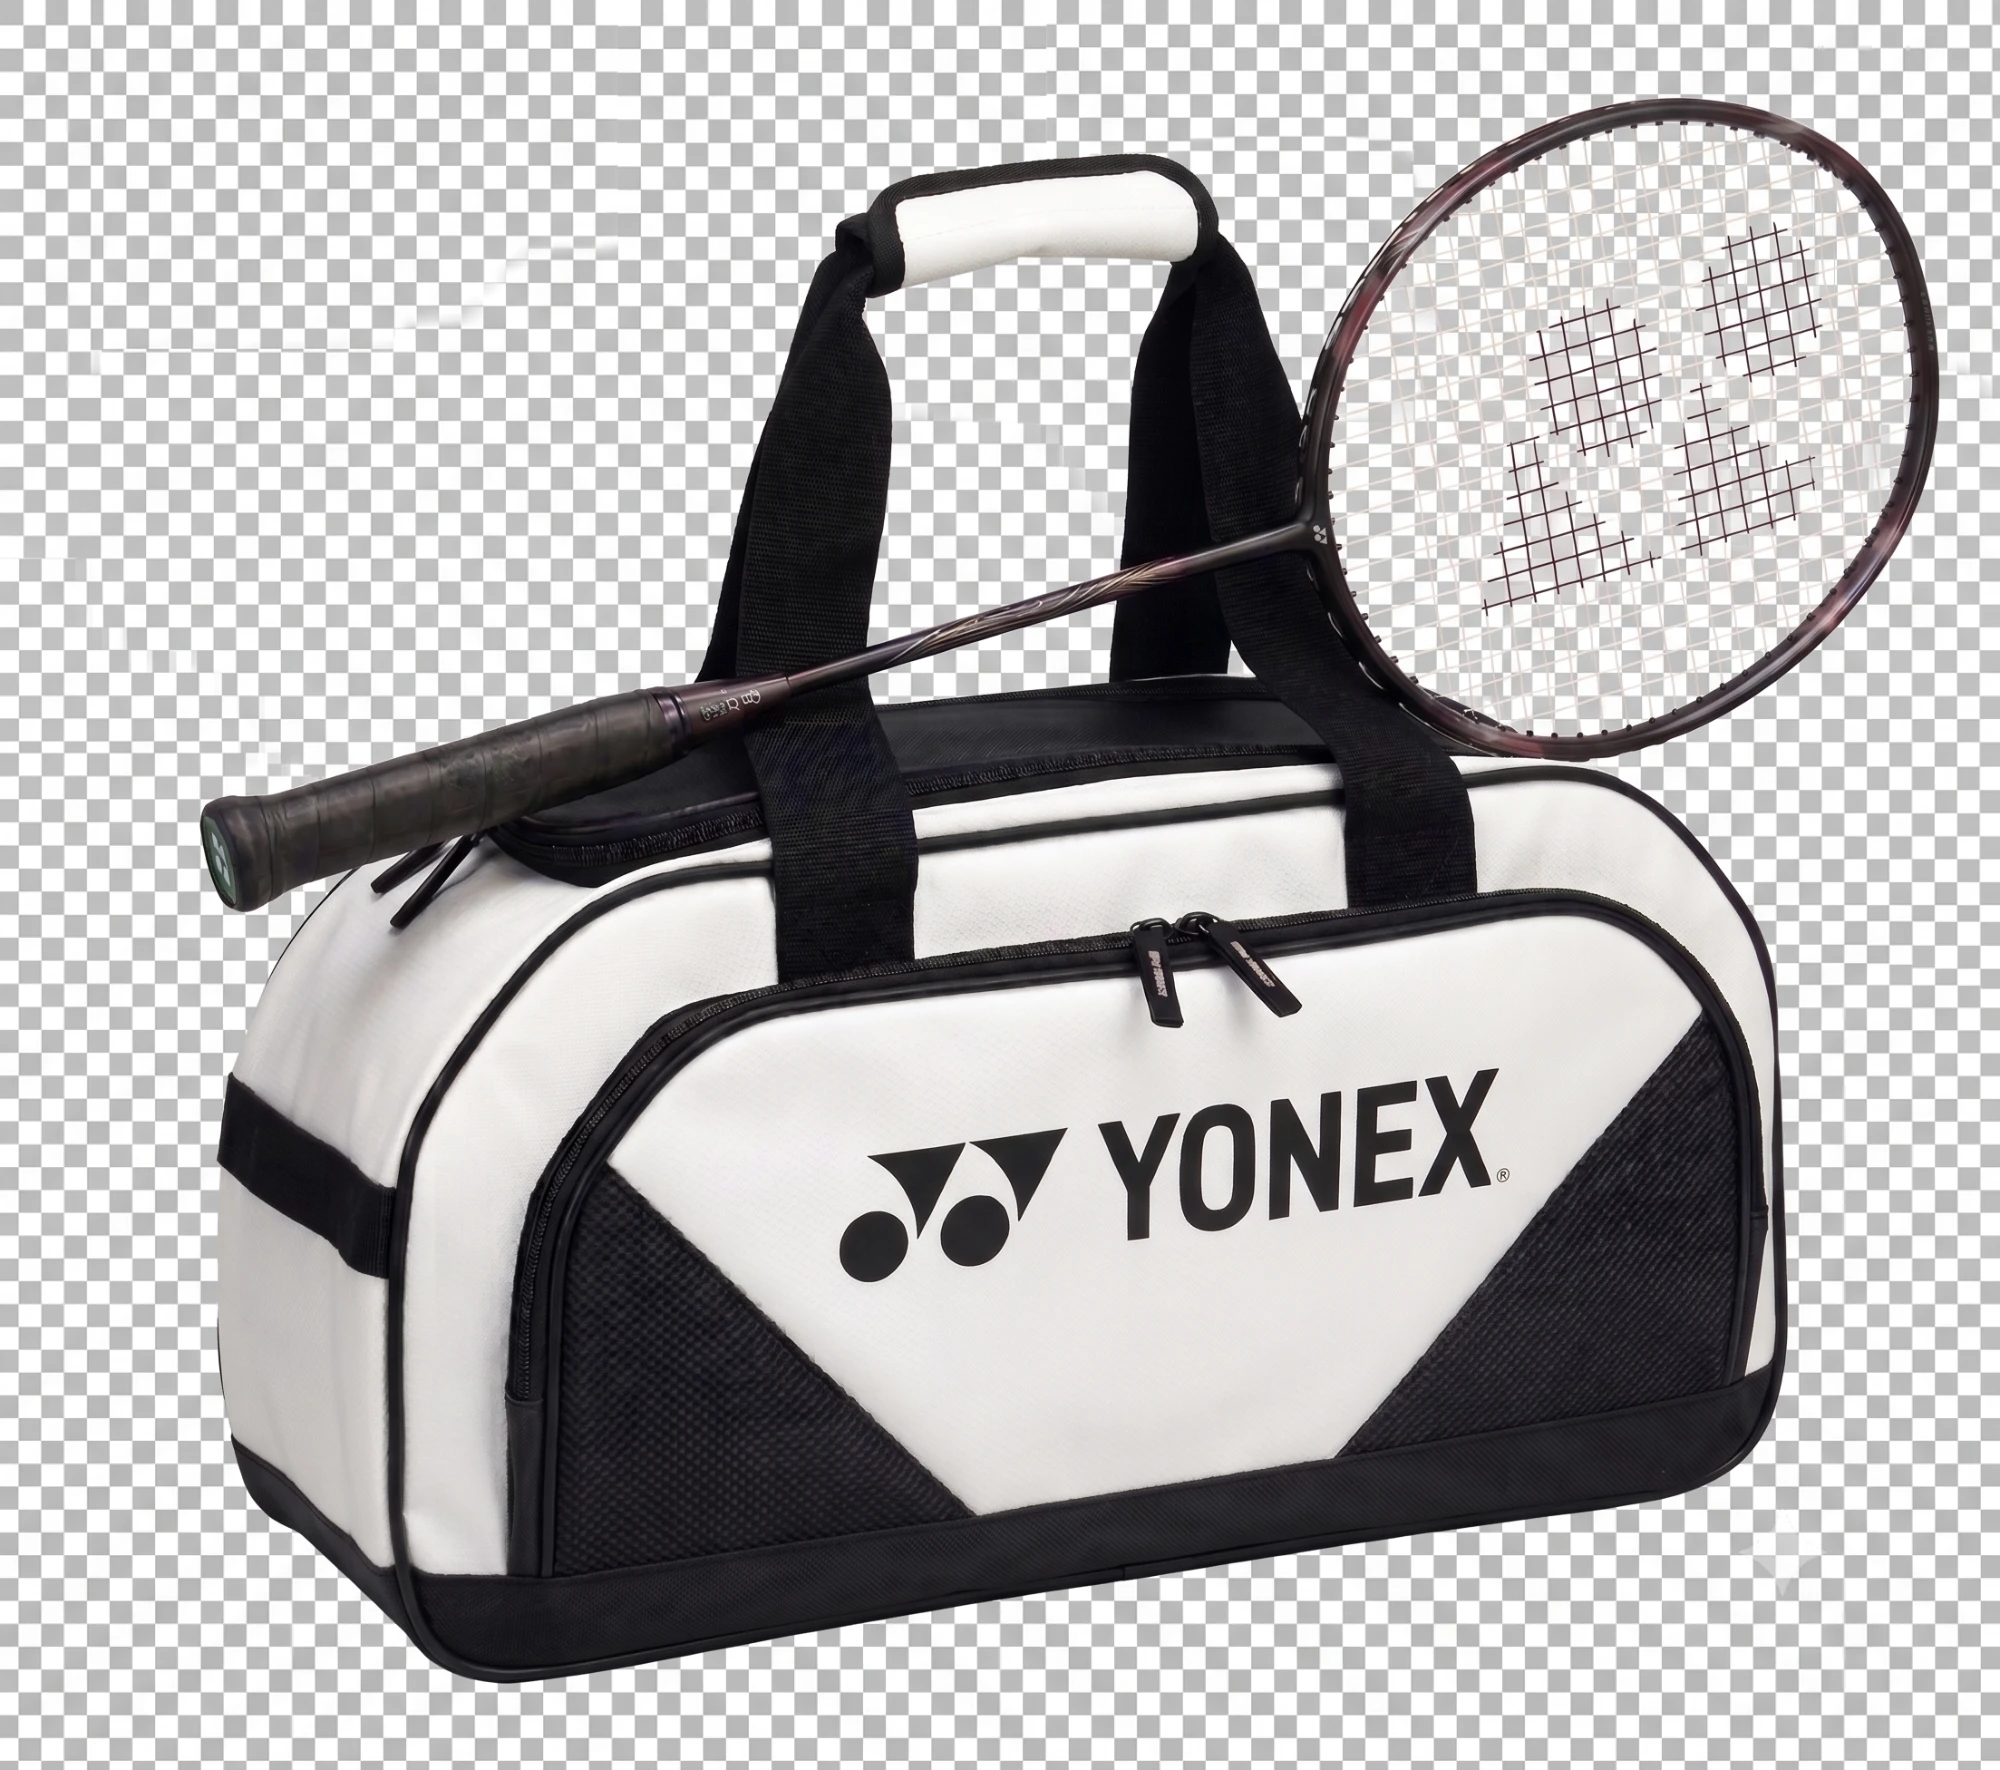
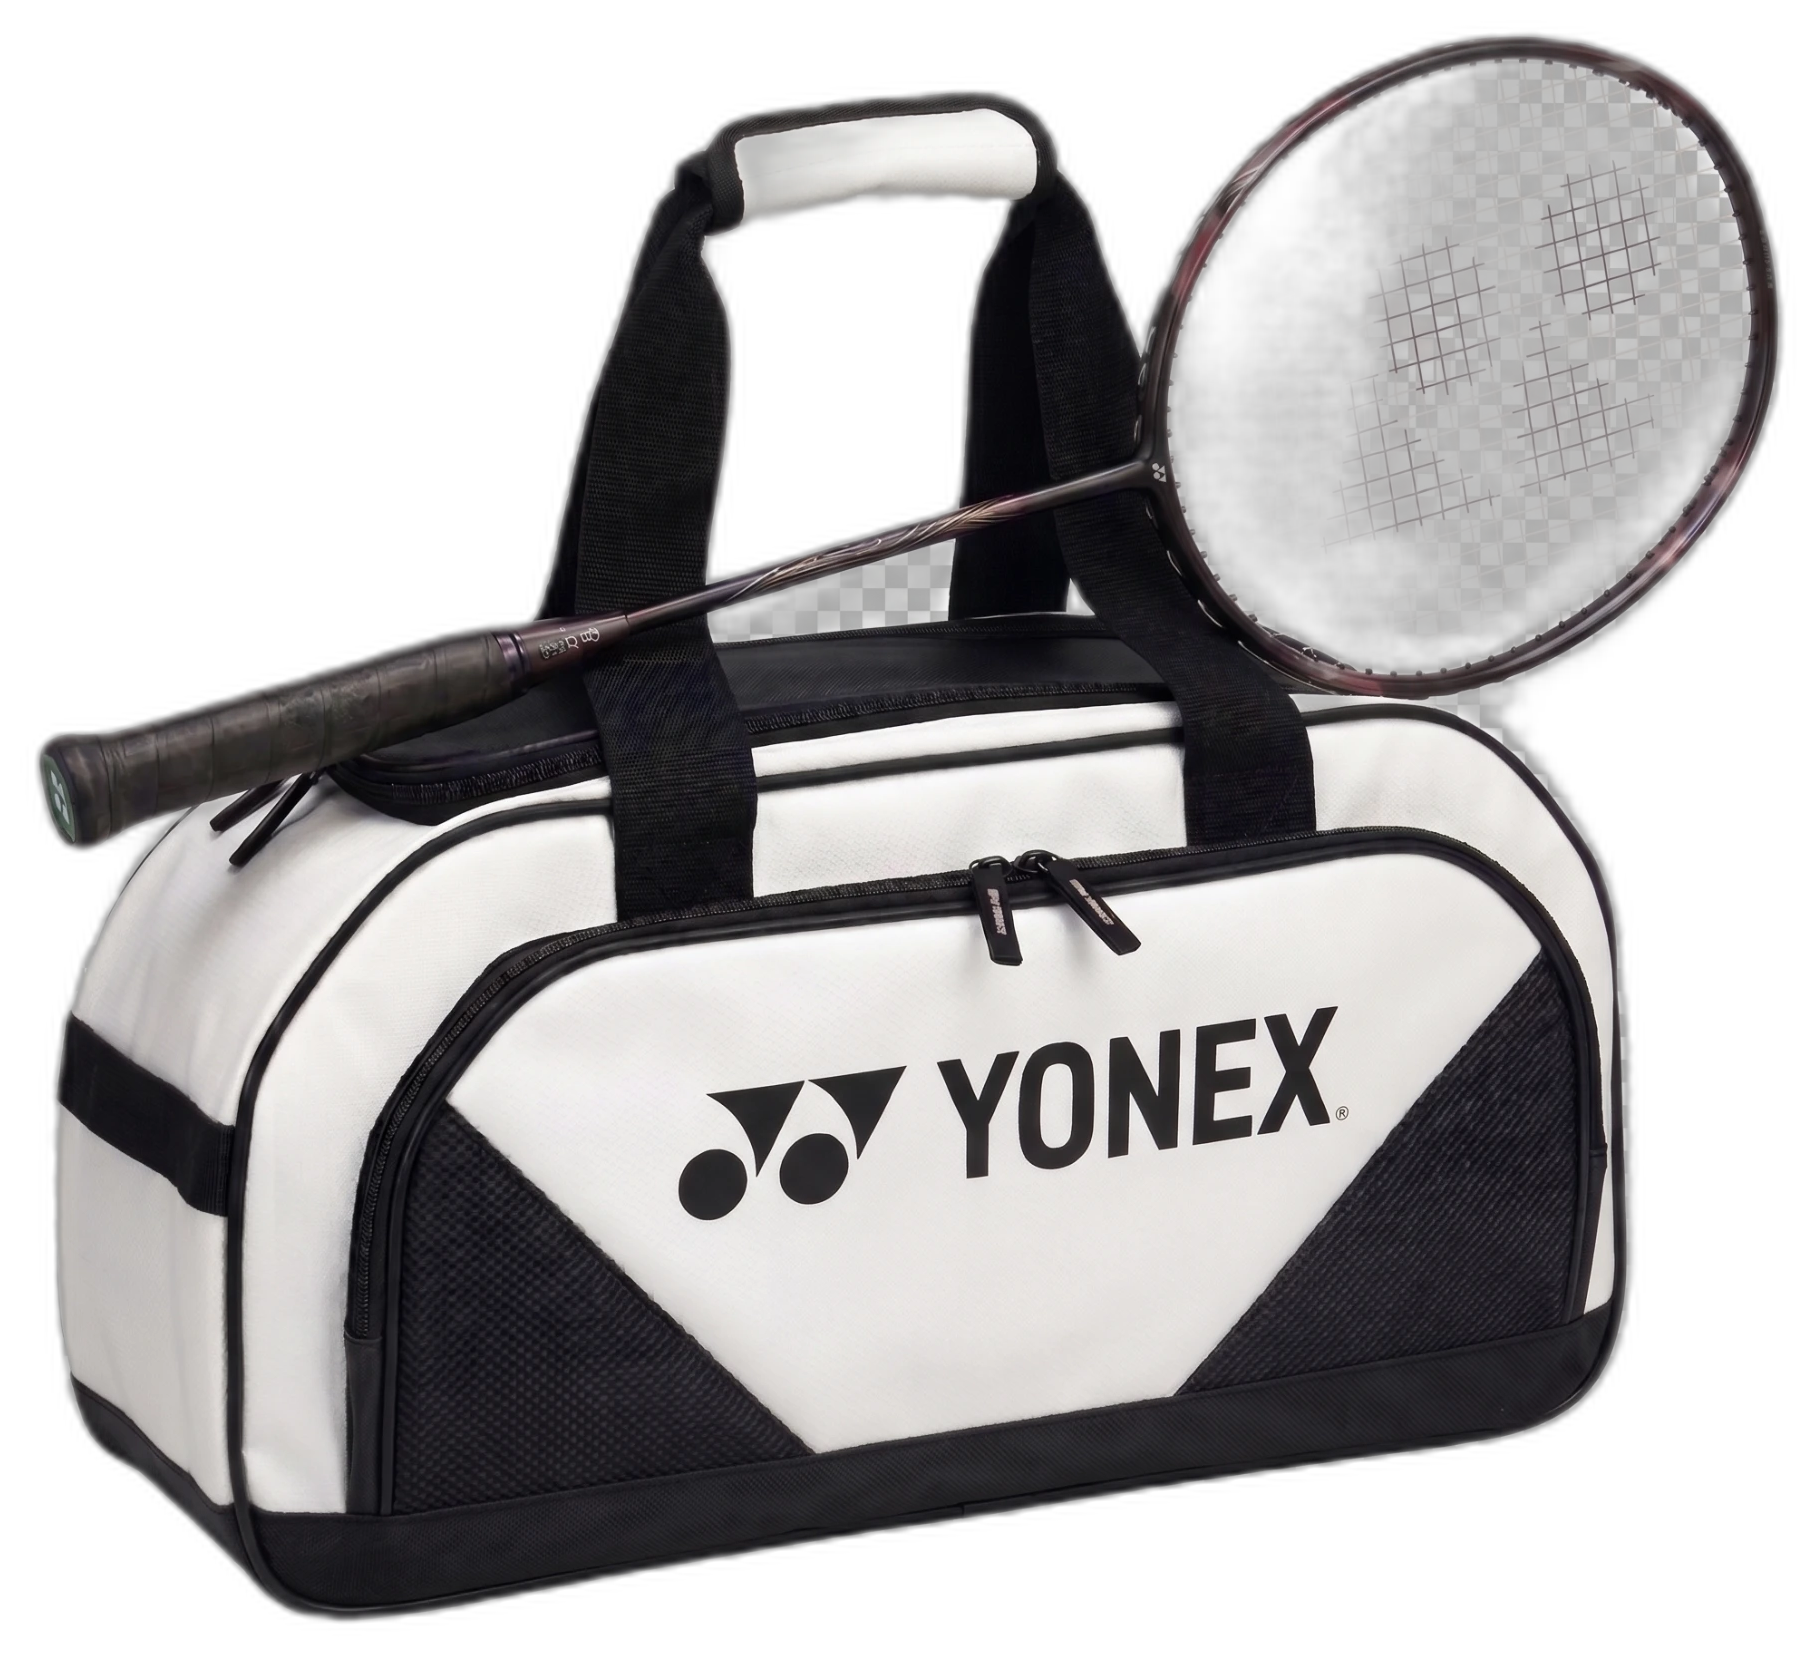
상품 사진 배경 제거, 추첨화면 배경 누락/모바일 정렬 수정
- 상품 사진 1~5등 전부 배경 제거(누끼) 처리, 원형 크롭 제거하고
  object-contain으로 전체가 잘리지 않게 표시
- 추첨 중(spin) 화면에 빠져있던 나침반 배경 이미지 적용
- 축하합니다 화면에서 모바일일 때 당첨자 카드 목록이 좌측 정렬되던 것을
  가운데 정렬로 수정
- 다인 추첨 릴이 모바일에서 가로 스크롤 대신 아래로 줄바꿈되도록 수정

Claude-Session: https://claude.ai/code/session_017WQ6kipBukdxey6KzMxMUp

diff --git a/src/components/PrizeReveal.tsx b/src/components/PrizeReveal.tsx
@@ -44,10 +44,10 @@ export default function PrizeReveal({
             <span className="inline-flex w-fit items-center rounded-full bg-[#13294b] px-6 py-2 text-2xl font-black text-white sm:px-8 sm:py-2.5 sm:text-3xl">
               {round.label}
             </span>
-            <div className="flex h-28 w-28 items-center justify-center overflow-hidden rounded-full bg-gradient-to-b from-[#eaf2fb] to-[#9fb9d6] shadow-inner sm:h-32 sm:w-32">
+            <div className="flex h-28 w-32 items-center justify-center sm:h-32 sm:w-40">
               {round.prizeImage ? (
                 /* eslint-disable-next-line @next/next/no-img-element -- 상품 사진은 next/image 최적화 없이 원본 그대로 표시합니다. */
-                <img src={round.prizeImage} alt={round.prizeName} className="h-full w-full object-cover" />
+                <img src={round.prizeImage} alt={round.prizeName} className="h-full w-full object-contain drop-shadow-md" />
               ) : (
                 <svg viewBox="0 0 100 100" className="h-12 w-12 text-slate-500/60" fill="none" xmlns="http://www.w3.org/2000/svg">
                   <rect x="20" y="40" width="60" height="45" rx="4" stroke="currentColor" strokeWidth="4" />
@@ -58,10 +58,10 @@ export default function PrizeReveal({
             <p className="whitespace-pre-line text-center text-sm font-semibold leading-snug text-slate-700">{round.prizeName}</p>
           </div>
 
-          <div className="flex flex-col justify-center gap-2 sm:h-full sm:overflow-y-auto">
-            <span className="text-xs font-medium text-slate-400">{round.label} 당첨자</span>
+          <div className="flex flex-col items-center justify-center gap-2 sm:items-stretch sm:h-full sm:overflow-y-auto">
+            <span className="text-xs font-medium text-slate-400 text-center sm:text-left">{round.label} 당첨자</span>
             <div
-              className="grid content-start items-start justify-items-stretch gap-3"
+              className="grid content-start items-start justify-center justify-items-stretch gap-3 sm:justify-start"
               style={{ gridTemplateColumns: "repeat(auto-fit, minmax(140px, 220px))" }}
             >
               {winners.map((w) => {

diff --git a/src/components/SlotReel.tsx b/src/components/SlotReel.tsx
@@ -160,38 +160,34 @@ export function MultiSlotReel({
 
   return (
     <div className="flex w-full flex-col items-center gap-4">
-      <div className="w-full overflow-x-auto">
+      <div
+        className="grid w-full justify-center gap-3"
+        style={{ gridTemplateColumns: `repeat(auto-fit, minmax(${COMPACT_ITEM_WIDTH + COMPACT_ITEM_GAP}px, 1fr))` }}
+      >
+        {top.map((winner, i) => (
+          <CompactReelRow
+            key={winner.id}
+            pool={pool}
+            winner={winner}
+            duration={COMPACT_BASE_DURATION + i * COMPACT_SETTLE_STAGGER}
+            onSettle={handleRowSettle}
+          />
+        ))}
+      </div>
+      {bottom.length > 0 && (
         <div
-          className="grid gap-3"
-          style={{ gridTemplateColumns: `repeat(${top.length}, minmax(${COMPACT_ITEM_WIDTH}px, 1fr))` }}
+          className="grid w-full justify-center gap-3"
+          style={{ gridTemplateColumns: `repeat(auto-fit, minmax(${COMPACT_ITEM_WIDTH + COMPACT_ITEM_GAP}px, 1fr))` }}
         >
-          {top.map((winner, i) => (
+          {bottom.map((winner, i) => (
             <CompactReelRow
               key={winner.id}
               pool={pool}
               winner={winner}
-              duration={COMPACT_BASE_DURATION + i * COMPACT_SETTLE_STAGGER}
+              duration={COMPACT_BASE_DURATION + (top.length + i) * COMPACT_SETTLE_STAGGER}
               onSettle={handleRowSettle}
             />
           ))}
-        </div>
-      </div>
-      {bottom.length > 0 && (
-        <div className="w-full overflow-x-auto">
-          <div
-            className="grid gap-3"
-            style={{ gridTemplateColumns: `repeat(${bottom.length}, minmax(${COMPACT_ITEM_WIDTH}px, 1fr))` }}
-          >
-            {bottom.map((winner, i) => (
-              <CompactReelRow
-                key={winner.id}
-                pool={pool}
-                winner={winner}
-                duration={COMPACT_BASE_DURATION + (top.length + i) * COMPACT_SETTLE_STAGGER}
-                onSettle={handleRowSettle}
-              />
-            ))}
-          </div>
         </div>
       )}
     </div>

diff --git a/src/app/draw/page.tsx b/src/app/draw/page.tsx
@@ -301,11 +301,20 @@ export default function DrawPage() {
         {phase === "spin" && currentRound && roundWinners.length > 0 && (
           <motion.div key="spin" {...fadeUp} className="flex w-full flex-col items-center gap-4">
           <div
-            className={`relative w-full overflow-hidden rounded-3xl bg-white/60 shadow-[0_8px_40px_rgba(0,0,0,0.08)] ring-1 ring-white/60 backdrop-blur-2xl ${
+            className={`relative w-full overflow-hidden rounded-3xl shadow-[0_8px_40px_rgba(0,0,0,0.08)] ring-1 ring-white/60 ${
               isMultiDraw ? "max-w-6xl" : "max-w-3xl"
             }`}
           >
-            <div className="flex flex-col items-center gap-2 px-6 pt-8 text-center">
+            {/* eslint-disable-next-line @next/next/no-img-element -- next/image의 fill 방식이 프로덕션에서 간헐적으로 로드 실패해 일반 img로 우회합니다. */}
+            <img
+              src="/images/event-visual-draw.webp"
+              alt=""
+              aria-hidden="true"
+              className="absolute inset-0 h-full w-full object-cover"
+            />
+            <div className="absolute inset-0 bg-white/55 backdrop-blur-md" />
+
+            <div className="relative z-10 flex flex-col items-center gap-2 px-6 pt-8 text-center">
               <h1 className="text-2xl font-black tracking-tight text-slate-900 sm:text-3xl">
                 AI 당첨자 추첨 <span className="text-blue-600">Agent</span>
               </h1>
@@ -314,7 +323,7 @@ export default function DrawPage() {
               </p>
             </div>
 
-            <div className="flex flex-col items-center gap-4 px-6 py-8 sm:px-10 sm:py-10">
+            <div className="relative z-10 flex flex-col items-center gap-4 px-6 py-8 sm:px-10 sm:py-10">
               <p className="text-lg font-medium text-blue-600">추첨 중...</p>
               {roundWinners.length === 1 ? (
                 <SlotReel

diff --git a/src/components/PrizeLobby.tsx b/src/components/PrizeLobby.tsx
@@ -84,10 +84,10 @@ export default function PrizeLobby({
                   <span className="text-sm font-bold text-slate-900">
                     {round.label}({round.count}명)
                   </span>
-                  <div className="flex h-12 w-12 items-center justify-center overflow-hidden rounded-full bg-gradient-to-b from-[#eaf2fb] to-[#9fb9d6] shadow-inner">
+                  <div className="flex h-12 w-16 items-center justify-center">
                     {round.prizeImage ? (
                       /* eslint-disable-next-line @next/next/no-img-element -- 상품 사진은 next/image 최적화 없이 원본 그대로 표시합니다. */
-                      <img src={round.prizeImage} alt={round.prizeName} className="h-full w-full object-cover" />
+                      <img src={round.prizeImage} alt={round.prizeName} className="h-full w-full object-contain" />
                     ) : (
                       <svg viewBox="0 0 100 100" className="h-6 w-6 text-slate-500/60" fill="none" xmlns="http://www.w3.org/2000/svg">
                         <rect x="20" y="40" width="60" height="45" rx="4" stroke="currentColor" strokeWidth="6" />

diff --git a/src/components/PrizeIntro.tsx b/src/components/PrizeIntro.tsx
@@ -39,10 +39,10 @@ export default function PrizeIntro({
           </div>
 
           <div className="flex flex-col items-center gap-4">
-            <div className="flex h-32 w-32 items-center justify-center overflow-hidden rounded-full bg-gradient-to-b from-[#eaf2fb] to-[#9fb9d6] shadow-inner sm:h-44 sm:w-44">
+            <div className="flex h-32 w-40 items-center justify-center sm:h-44 sm:w-56">
               {round.prizeImage ? (
                 /* eslint-disable-next-line @next/next/no-img-element -- 상품 사진은 next/image 최적화 없이 원본 그대로 표시합니다. */
-                <img src={round.prizeImage} alt={round.prizeName} className="h-full w-full object-cover" />
+                <img src={round.prizeImage} alt={round.prizeName} className="h-full w-full object-contain drop-shadow-md" />
               ) : (
                 <svg viewBox="0 0 100 100" className="h-14 w-14 text-slate-500/60 sm:h-16 sm:w-16" fill="none" xmlns="http://www.w3.org/2000/svg">
                   <rect x="20" y="40" width="60" height="45" rx="4" stroke="currentColor" strokeWidth="4" />
